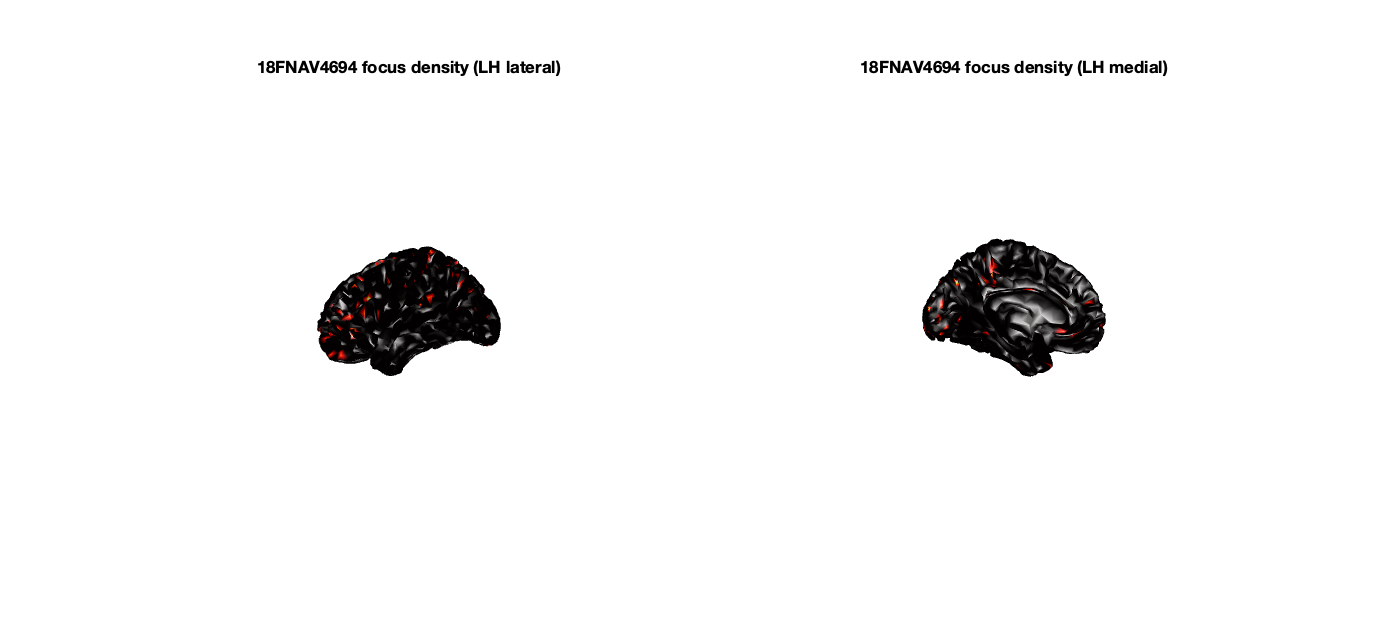
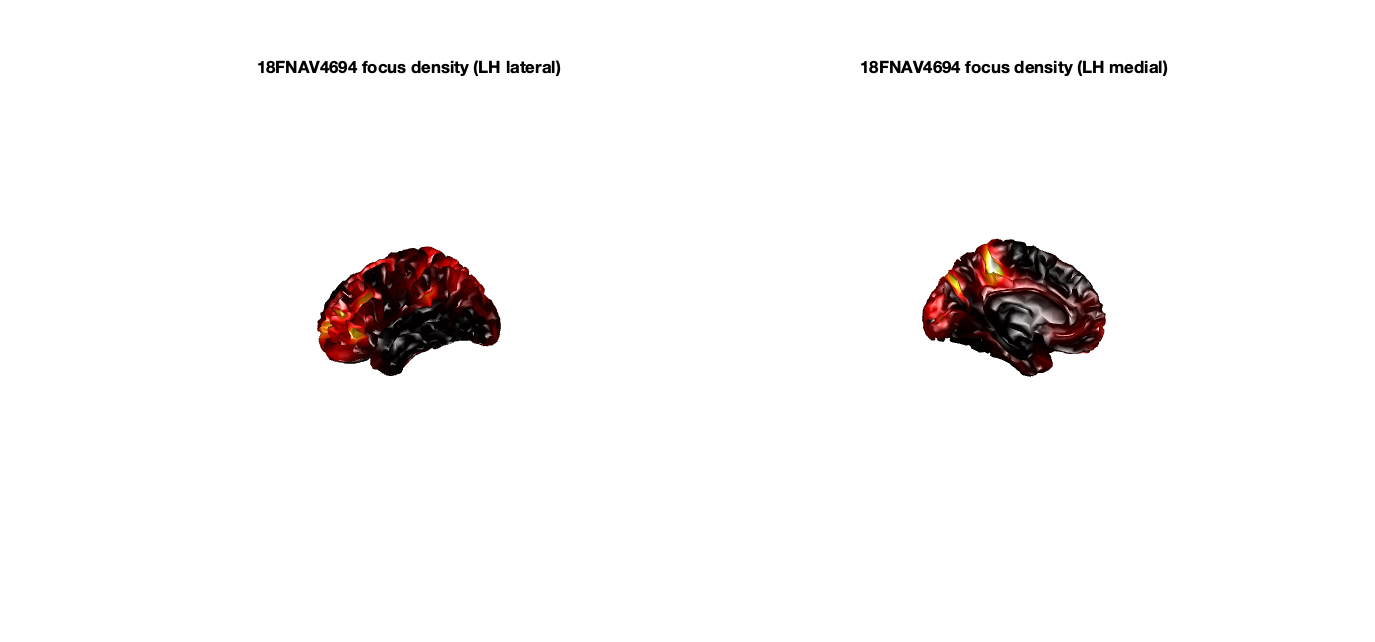
bench(pet): smooth the cohort focus-density map (graph diffusion) for a readable figure
The per-vertex foci made the density figure speckled. Smooth it with graph (adjacency) diffusion
on the template surface - robust to the NON-MANIFOLD template mesh (the LBO/nxr operator requires
manifoldness and errored on it; a density map does not). ~25 lazy random-walk steps (~8-10mm),
total count renormalized.

Result: amyloid density now clearly concentrates in precuneus/posterior-cingulate (medial) +
frontal/parietal association cortex (lateral) - the canonical DMN amyloid signature. Tau density
sits in lateral parietal/frontal (off-target) with NO precuneus and NO medial-temporal/Braak
hotspot - visually confirming the preclinical amyloid-present-vs-tau-absent contrast.

Claude-Session: https://claude.ai/code/session_01BTbrKJ8SkHiQg9hX2gkaPi

Changed region(s): [[0.2138, 0.3738, 0.3665, 0.5919], [0.672, 0.3738, 0.8247, 0.5919]]

diff --git a/dev/benchmarks/analyze_pet_epicenters.m b/dev/benchmarks/analyze_pet_epicenters.m
@@ -62,21 +62,37 @@ function R = analyze_pet_epicenters(subjects, tracer)
     [cnt,o]=sort(cnt,'descend');
     fprintf('  top dominant-focus regions:\n');
     for k=1:min(8,numel(ureg)), fprintf('     %-28s %d\n', ureg{o(k)}, cnt(k)); end
-    % figure: cohort focus-density on the template white (LH lateral + medial)
+    % figure: cohort focus-density (LBO heat-smoothed so the concentration reads as a map, not
+    % per-vertex speckle), template LH lateral + medial.
     try
+        densS=local_smoothdens(tWf, dens, 25);   % ~25 graph-diffusion steps (~8-10mm spread)
         [~,lH]=tess_hemisplit(tW); idx=double(lH(:)); keep=all(ismember(tW.Faces,idx),2);
         rmp=zeros(size(tW.Vertices,1),1); rmp(idx)=1:numel(idx); Fh=rmp(tW.Faces(keep,:)); vw={[180 -10],[0 -10]};
+        cmax=max(densS(idx))+eps;
         f=figure('Visible','off','Position',[40 40 900 420]);
         for s2=1:2
             subplot(1,2,s2);
-            patch('Faces',Fh,'Vertices',tW.Vertices(idx,:),'FaceVertexCData',dens(idx),'FaceColor','interp','EdgeColor','none');
-            clim([0 max(dens(idx))+eps]); colormap(hot); view(vw{s2}); axis equal off vis3d; camlight headlight; lighting gouraud;
+            patch('Faces',Fh,'Vertices',tW.Vertices(idx,:),'FaceVertexCData',densS(idx),'FaceColor','interp','EdgeColor','none');
+            clim([0 cmax]); colormap(hot); view(vw{s2}); axis equal off vis3d; camlight headlight; lighting gouraud;
             vwn={'lateral','medial'}; title(sprintf('%s focus density (LH %s)',tracer,vwn{s2}),'Interpreter','none');
         end
         png=fullfile(here,sprintf('pet_epicenters_%s.png',tracer)); print(f,png,'-dpng','-r110'); close(f);
         fprintf('  figure -> %s\n', png);
     catch ME, fprintf('  figure skipped: %s\n', ME.message); end
     R=struct('rows',{R},'density',dens);
+end
+
+function ds=local_smoothdens(SurfaceFile, dens, nIter)
+    % Graph (adjacency) diffusion of the cohort focus-density: robust to the non-manifold template
+    % mesh (the LBO/nxr operator requires manifoldness; a density map does not). Each iteration is a
+    % lazy random-walk step (~1 edge ~2-3mm on ico5); total count renormalized for a stable scale.
+    sSurf=in_tess_bst(SurfaceFile);
+    if isfield(sSurf,'VertConn') && ~isempty(sSurf.VertConn), A=sSurf.VertConn;
+    else, A=tess_vertconn(sSurf.Vertices, sSurf.Faces); end
+    A=double(A|A'); deg=sum(A,2); deg(deg==0)=1; W=A./deg;     % row-normalized neighbour averaging
+    ds=double(dens(:)); s0=sum(ds);
+    for it=1:nIter, ds=0.5*ds + 0.5*(W*ds); end
+    if sum(ds)>0, ds=ds*(s0/sum(ds)); end
 end
 
 function reg=local_region(sW, v)
